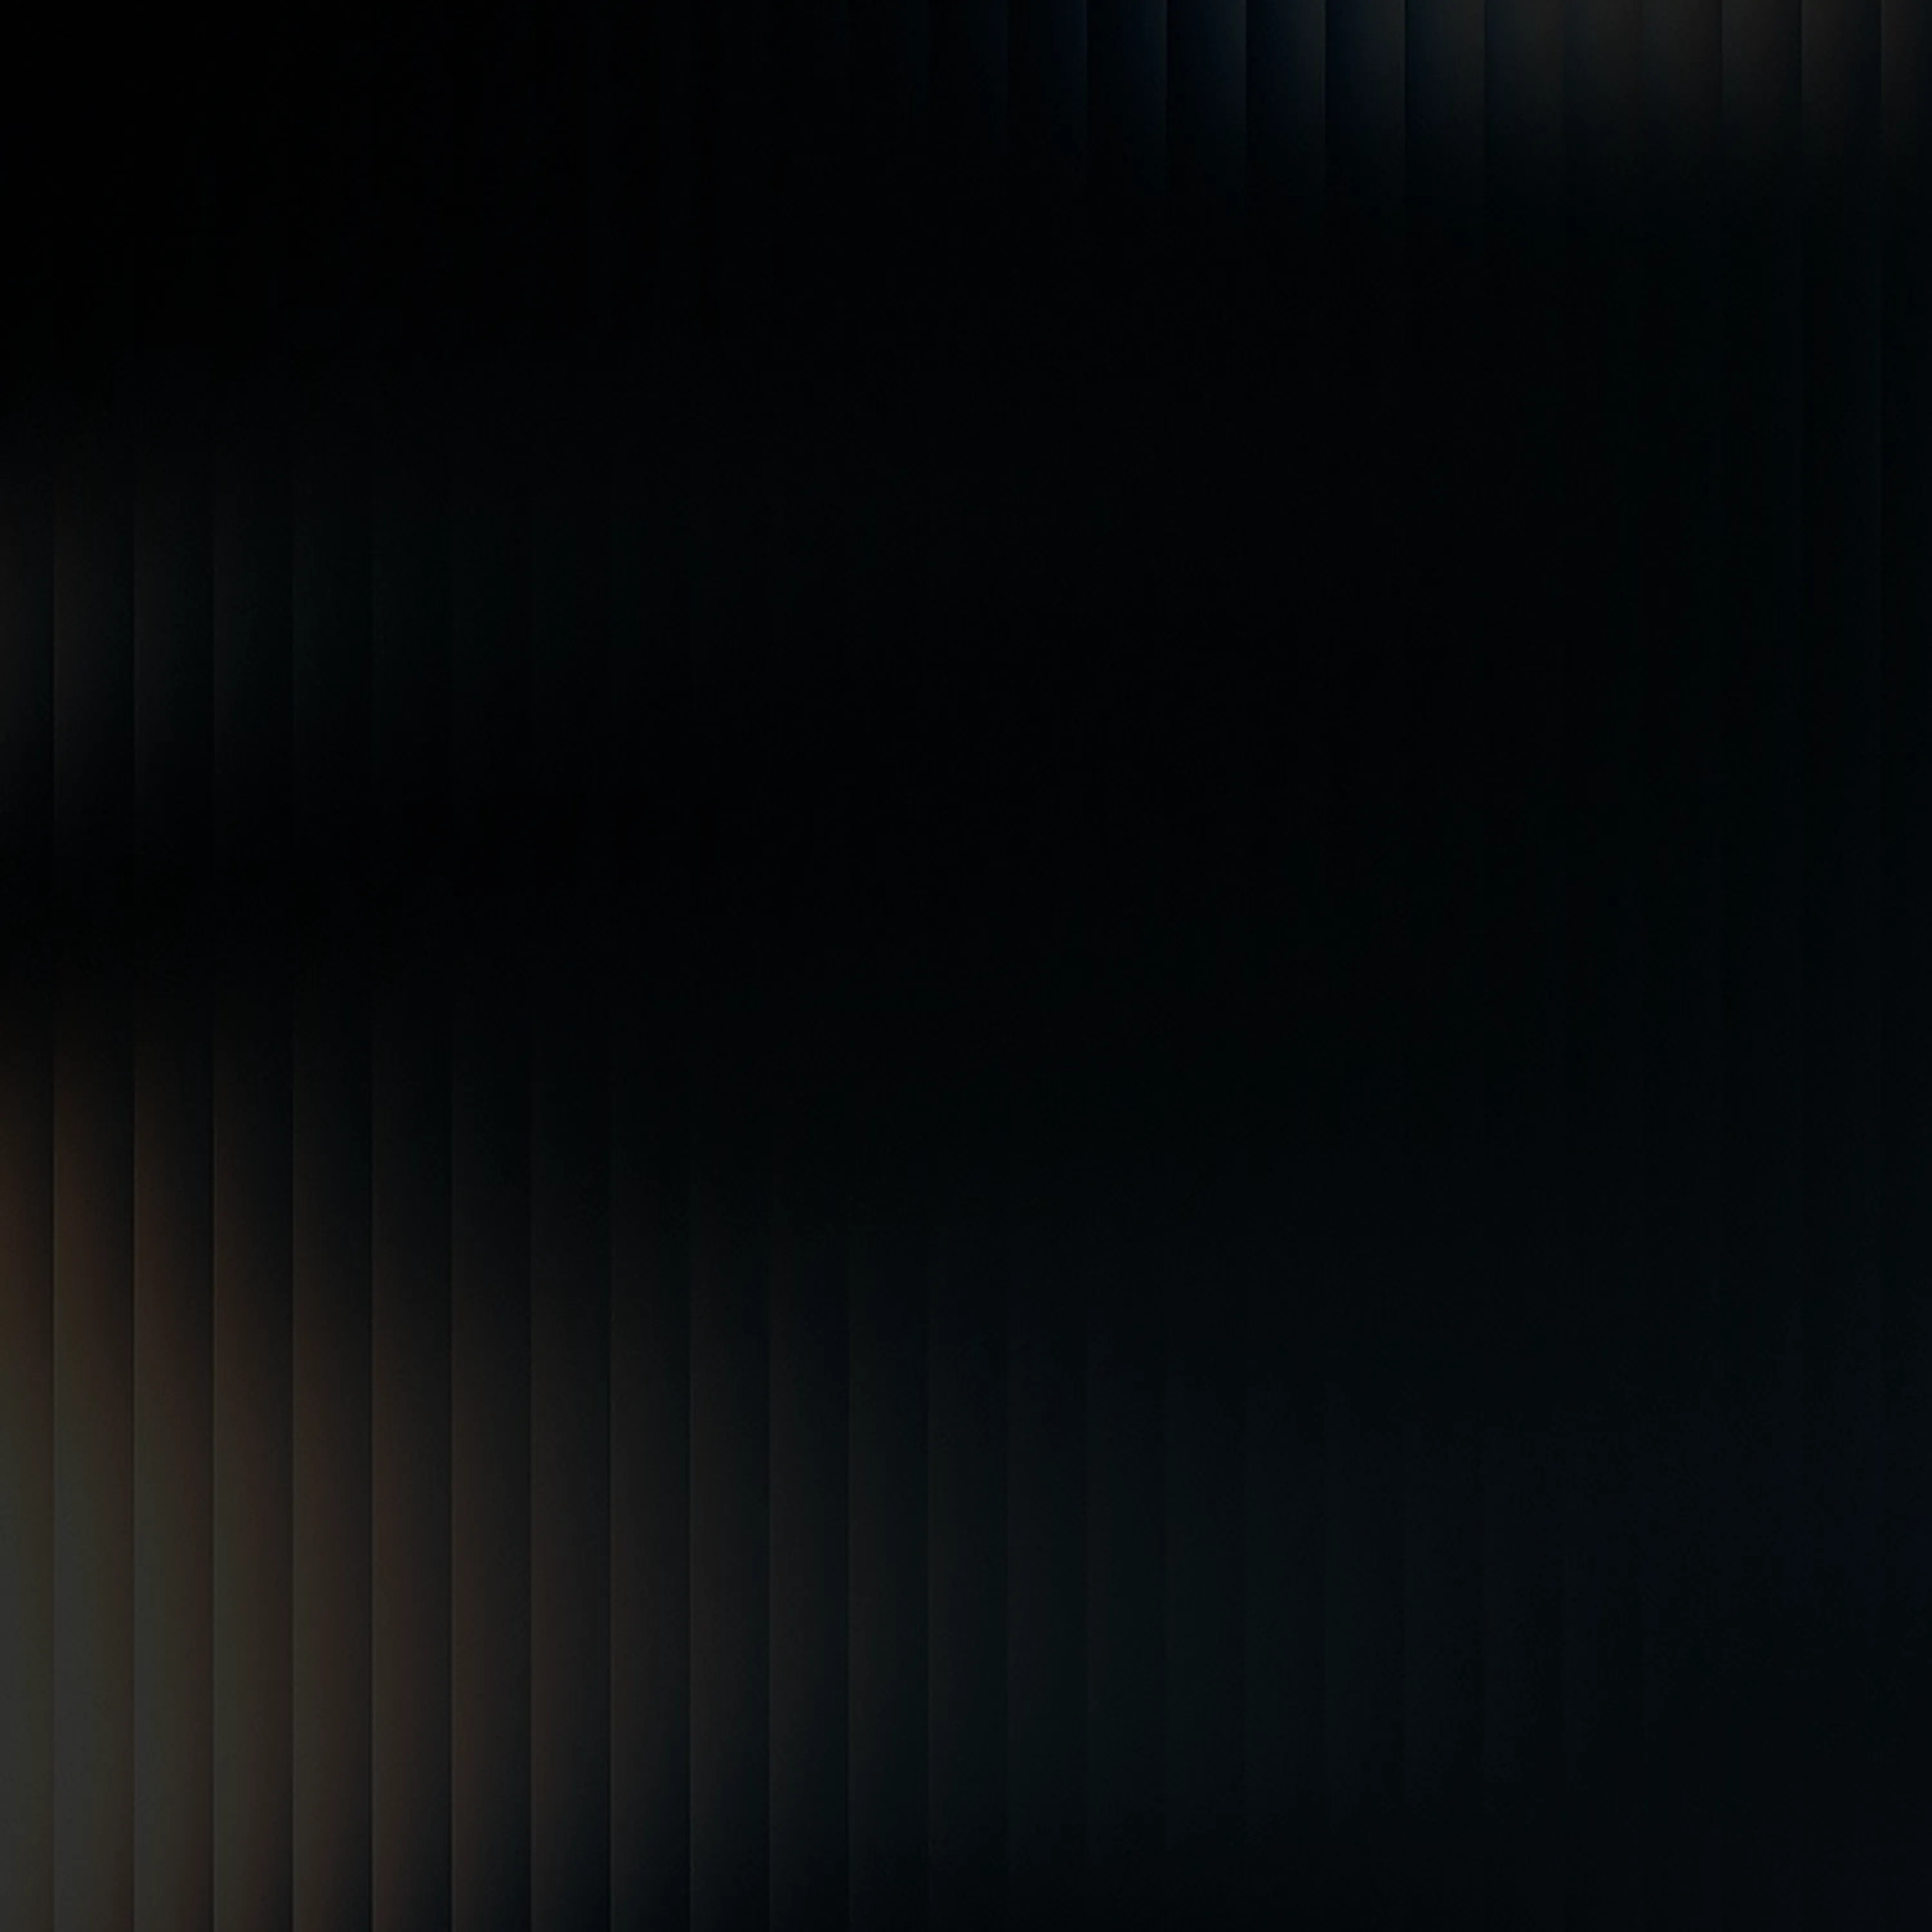
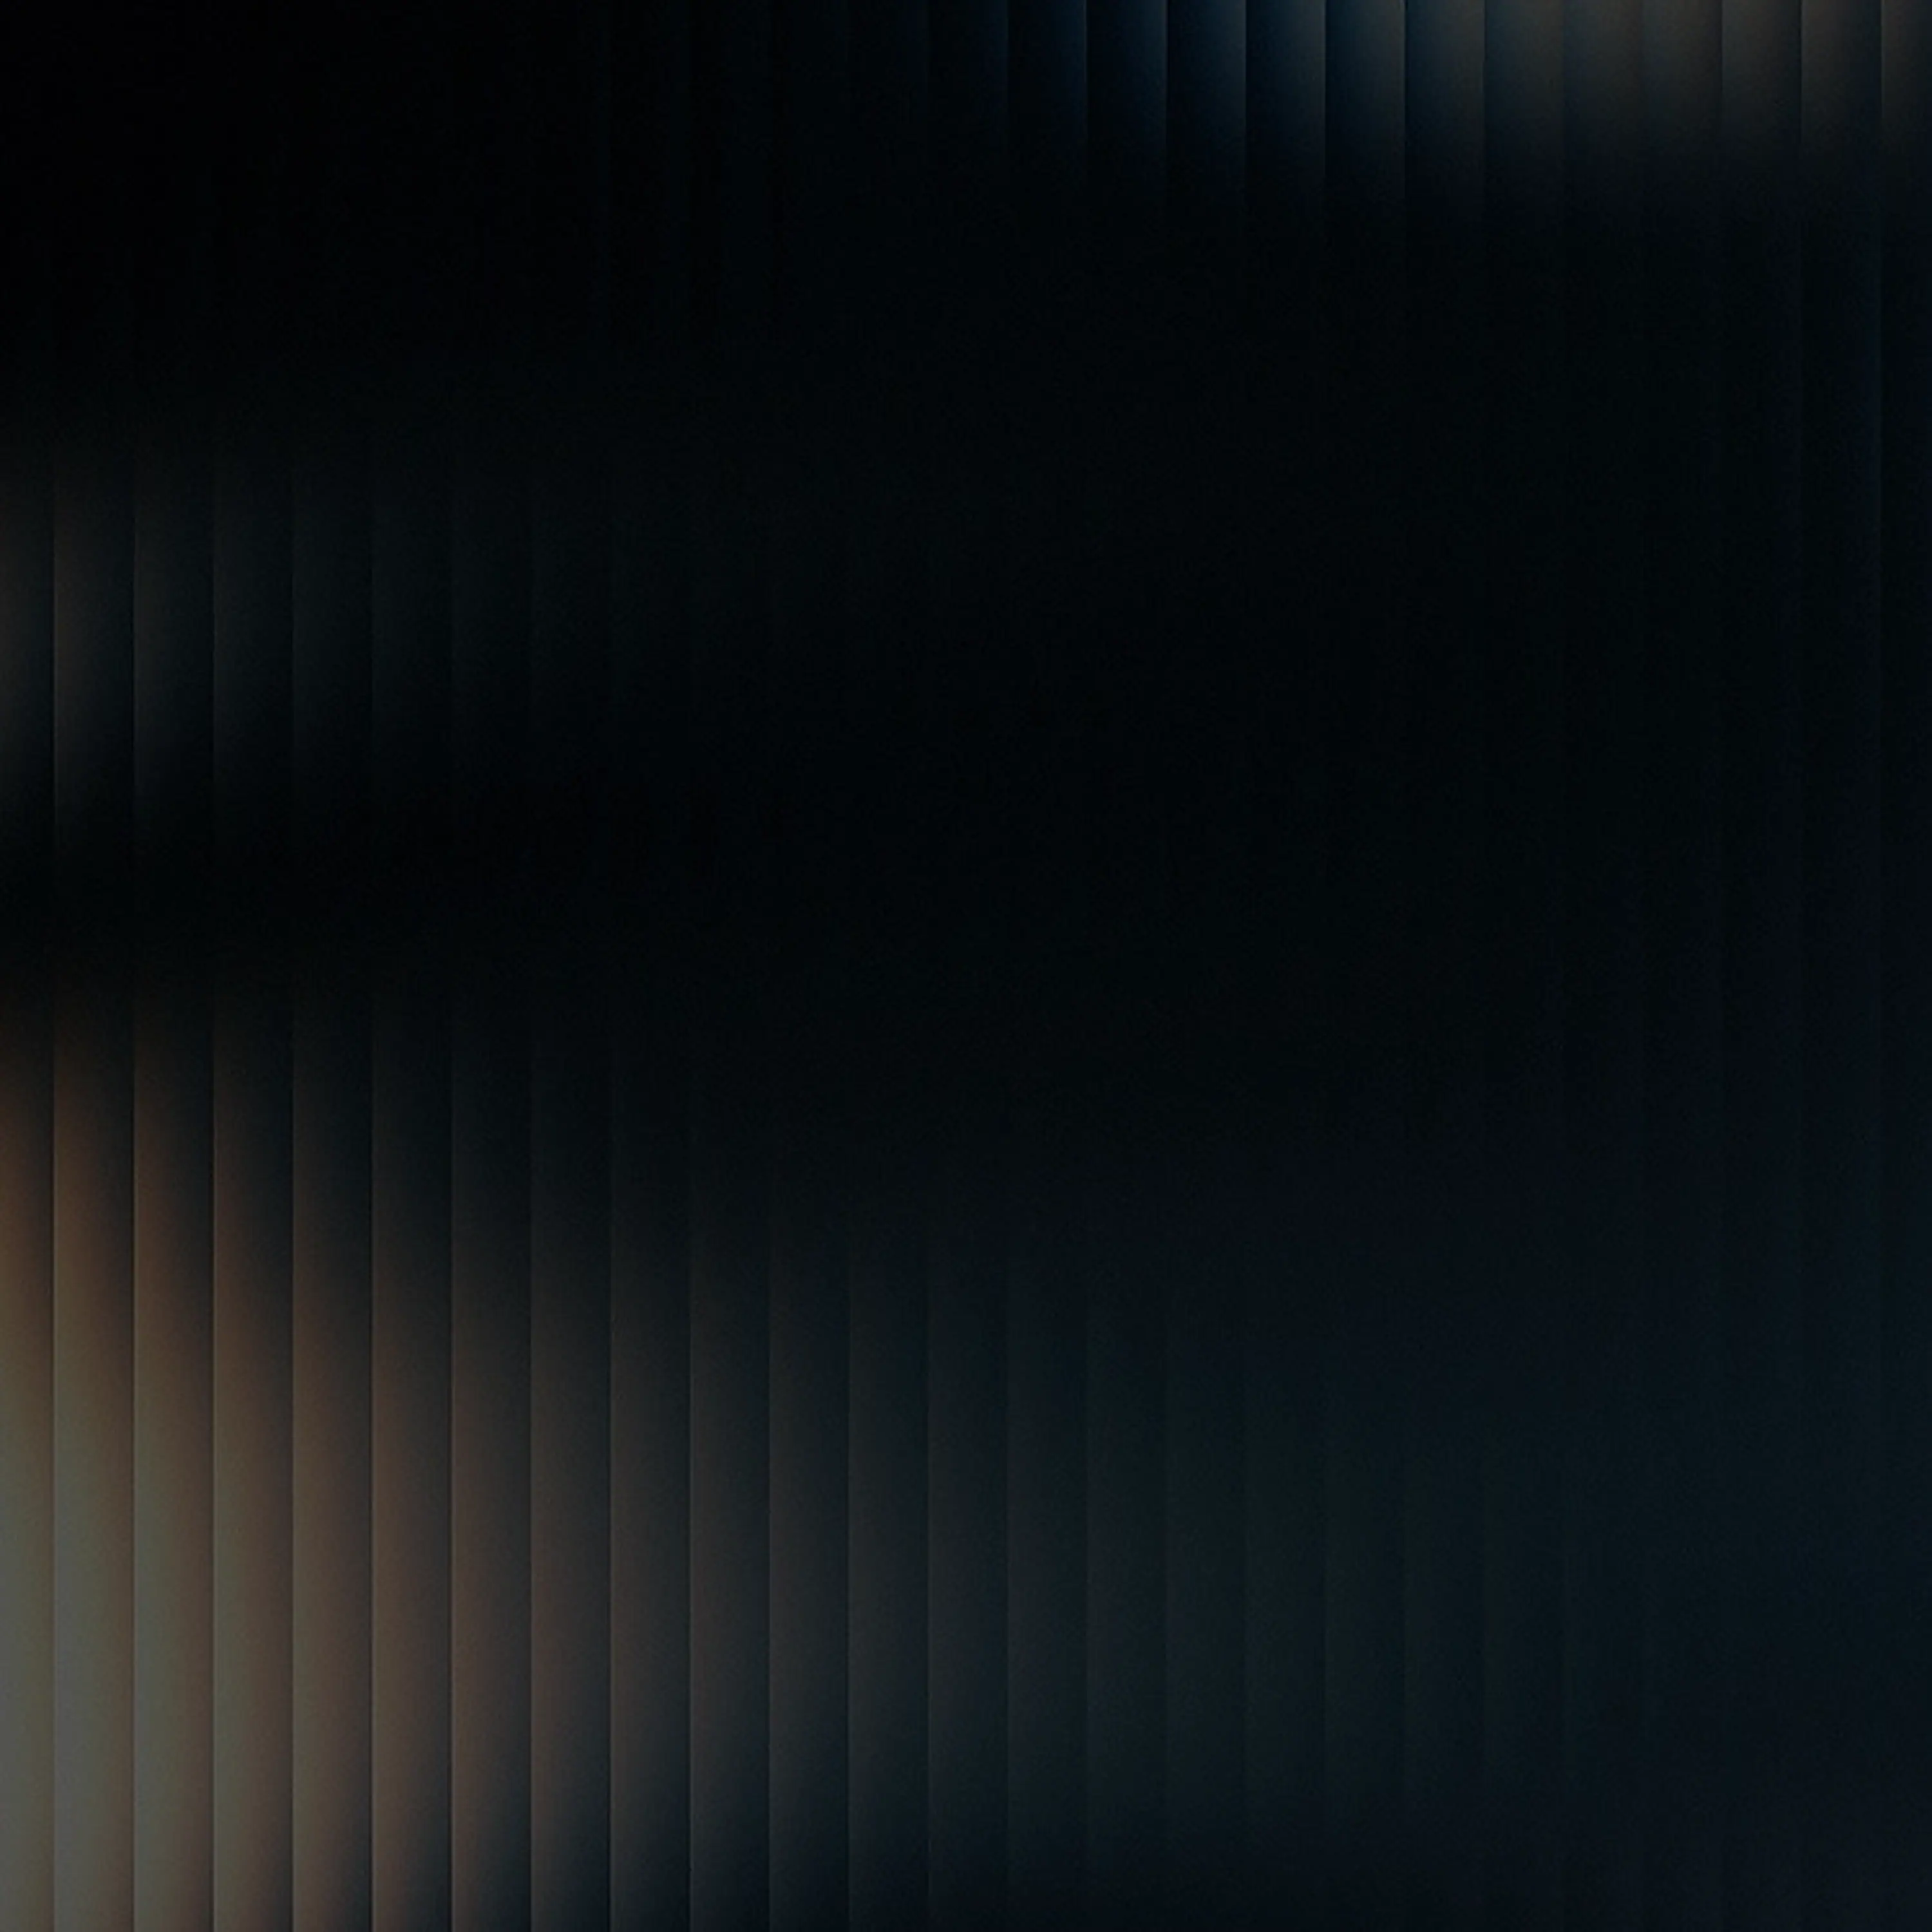
update bg

Changed region(s): [[0.0, 0.589, 0.341, 1.0]]

diff --git a/src/shared/data.ts b/src/shared/data.ts
@@ -67,7 +67,7 @@ export const PROJECTS = [
     description:
       "Multivendor food delivery application written using Payload CMS. Small and medium size brands to find themselfes. Previously worked as cook for",
 
-    tags: ["Open Source", "Fullstack", "Design", "UI/UX", "CMS"],
+    tags: ["Startup", "Nextjs", "Tailwind", "Blog"],
 
     links: [
       {
@@ -106,7 +106,7 @@ export const PROJECTS = [
     ],
     playbackId: "1xhk4BRkE72Eo01HxhrB00p1fm8XYN1Em9eXDIr5BeVVQ",
 
-    bgSrc: "/images/copilot-bg.webp",
+    bgSrc: "/images/heroes-bg.webp",
     placeholder:
[1 lines of base64/hex data omitted]
   },
@@ -130,7 +130,7 @@ export const PROJECTS = [
     ],
     playbackId: "01p5bcFrJxvK2TGGdeqBZ01O54Qe8sQKP01erVrbcG9flg",
 
-    bgSrc: "/images/heroes-bg.webp",
+    bgSrc: "/images/copilot-bg.webp",
     placeholder:
[1 lines of base64/hex data omitted]
   },